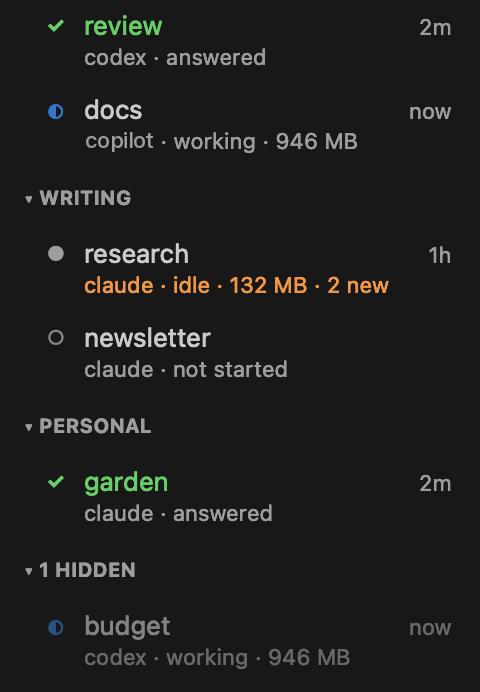
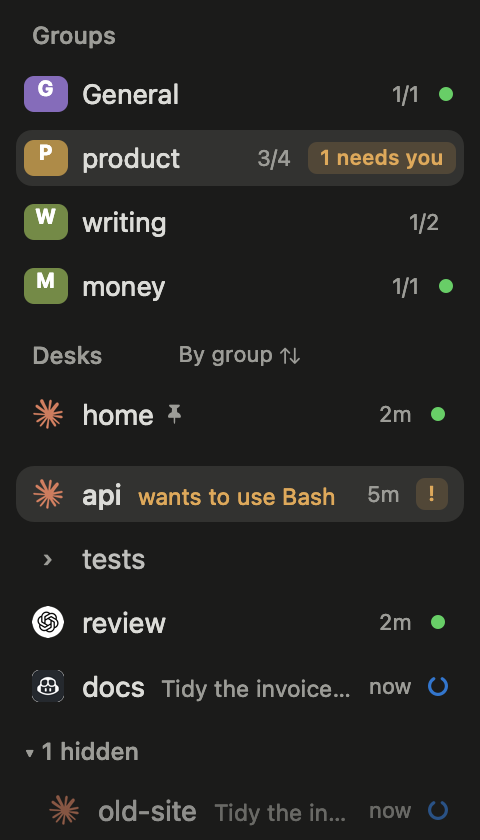
README and site: the new window, Needs You, Changes
New demo screenshots (made-up acme-app desks, vendor logos shown as a
person can add them): the window with groups, tabs and pane cards; the
desk list; the Needs You and Changes windows. Copy for the state marks,
the reason beside a desk, groups and priority, answering from one
window, and reviewing changes; new shortcuts; the guide's normal day.

Claude-Session: https://claude.ai/code/session_01RG4rCm66WLPeyJXCSSfMER

diff --git a/server/public/guide/index.html b/server/public/guide/index.html
@@ -331,7 +331,7 @@ budget = 50                 <span class="c"># dollars a week; the row turns red 
       <li><strong>Point each desk at its own folder.</strong> The agent reads and writes there, and its memory files there apply.</li>
       <li><strong>Group them.</strong> Desks with the same <code>group</code> fold together. Drag desks and whole groups into the order you like, or right-click and sort A to Z.</li>
       <li><strong>Pin the ones you live in.</strong> Right-click, Pin to Top. A pinned desk stays at the very top of the rail, above everything else, and cmd-1 goes to the first one.</li>
-      <li><strong>Let the desks that need you come to you.</strong> Running desks sit in Active at the top, under your pinned desks: orange (a question) first, then green (finished), then working and idle. Rows only move while the pointer is away from the list, so nothing jumps under a click. Right-click the list to turn <strong>Show Running Desks on Top</strong> off.</li>
+      <li><strong>Let the desks that need you come to you.</strong> Switch the desk list to <strong>By priority</strong> (the button beside Desks): every running desk under Needs you, Done, Working and Idle, longest wait first. Rows only move while the pointer is away from the list, so nothing jumps under a click.</li>
       <li><strong>Hide what you're not using.</strong> Right-click, Hide Desk. It stays in the file and comes back with one click.</li>
     </ul>
     <h3>Two Claude plans</h3>
@@ -345,15 +345,18 @@ budget = 50                 <span class="c"># dollars a week; the row turns red 
     <h2 id="day">A normal day</h2>
     <p>Hand a desk a job, move on to another desk, and let Coldfall tell you when to come back.</p>
     <figure>
-      <div class="pic"><picture><source srcset="/img/rail.webp" type="image/webp" width="480" height="714"><img src="/img/rail.png" width="480" height="714" loading="lazy" decoding="async" alt="The desk list, with a green line reading 3 need you."></picture></div>
-      <figcaption>The desk list. The green line names the desks waiting on you.</figcaption>
+      <div class="pic"><picture><source srcset="/img/rail.webp" type="image/webp" width="480" height="700"><img src="/img/rail.png" width="480" height="700" loading="lazy" decoding="async" alt="The desk list: four groups, one marked 1 needs you, and under it a desk whose row reads wants to use Bash."></picture></div>
+      <figcaption>Groups on top, the selected group's desks under them. Each desk has one mark for what it needs.</figcaption>
     </figure>
     <ul>
-      <li><strong>A green check</strong> on a desk means it finished while you were looking at something else, and its screen changed. It might want an answer, or it's just done. Its row also moves up to the top of the list, under the green line, until you've looked at it.</li>
-      <li><strong>Running desks sit in Active.</strong> The top of the desk list shows every running desk, the ones that need you first; the rest are below under Not running, in their groups. The small letter beside a name says which agent runs it (C Claude, X Codex, A Antigravity, G Copilot); <code>icon = "⛳"</code> in desks.toml gives a desk its own.</li>
-      <li><strong>Orange means it needs you.</strong> A desk stopped on a question (a permission, a choice) turns orange and stays that way until you answer it. Green means it finished. With Coldfall in the background you get a notification for either; click it to go there. Settings, Agents turns it off.</li>
+      <li><strong>One mark per desk.</strong> A green dot means it finished while you were looking at something else. An amber <strong>Needs you</strong> means it stopped on a question (a permission, a choice) and stays until you answer. A blue ring means it's working; a hollow circle, running with nothing new. With Coldfall in the background you get a notification for the first two; click it to go there. Settings, Agents turns it off.</li>
+      <li><strong>Why it's waiting</strong> is beside the desk's name, in the agent's own words: "wants to use Bash", or the question it asked. When it isn't waiting, that spot shows what the agent says it's working on.</li>
+      <li><strong>Groups on top, desks under them.</strong> Each group has a coloured letter, how many of its desks are running, and one mark for all of them. Click a group and the list, and the tabs over the terminal, switch to it. Drag a desk onto a group to move it there. The button beside <strong>Desks</strong> switches to <strong>By priority</strong>: every running desk from every group, most urgent first.</li>
+      <li><strong>Which agent runs a desk</strong> is the small letter beside its name (C Claude, X Codex, A Antigravity, G Copilot). To show a logo instead, put <code>claude.png</code>, <code>codex.png</code> and so on in <code>~/.config/coldfall/icons/</code>. <code>icon = "⛳"</code> in desks.toml gives one desk its own.</li>
+      <li><strong>Answer from one place.</strong> Click <strong>needs you</strong> at the bottom of the window (or <kbd>⌥⌘0</kbd>) to see every waiting desk with its question and its choices as buttons. A button presses its key only if that choice is still on the desk's screen.</li>
+      <li><strong>Review what it did.</strong> <strong>Changes</strong>, over the terminal (or <kbd>⇧⌘G</kbd>), lists the files changed since the last commit with their diffs. Select lines, write a comment, and send them all to the agent as one message. It only reads the repository.</li>
       <li><strong>Make green exact.</strong> Settings, Agents, <strong>Let agents say when they're done</strong>. Claude Code and Codex then tell Coldfall when a desk finishes or needs you, so a desk turns green on the agent's word rather than a guess from its output. It writes one line to a file on your Mac and sends nothing. Codex asks you to trust the new hook once: run <code>/hooks</code> in a Codex desk.</li>
-      <li><strong>The green line</strong> at the top names every waiting desk, oldest first. Click it, or press <kbd>⌘0</kbd>, to go to the one that's waited longest. The <strong>×</strong> clears it without visiting them.</li>
+      <li><strong>Who next?</strong> <kbd>⌘0</kbd> goes to the desk that's waited longest. <kbd>⌥⌘↓</kbd> and <kbd>⌥⌘↑</kbd> step through the list in the order shown. Glanced at an answer but not dealt with it? Right-click the desk, <strong>Mark Unread</strong>.</li>
       <li><strong>Jump around</strong> with <kbd>⌘1</kbd> to <kbd>⌘9</kbd> for your first nine desks, or <kbd>⌘P</kbd> to find any desk or file by a few letters.</li>
       <li><strong>Need a plain shell?</strong> <kbd>⌘D</kbd> splits one in beside the agent, in the same desk and folder. For a shell of its own in the list, <kbd>⌘N</kbd> makes a new shell desk.</li>
       <li><strong>Files your agents write</strong> open in the reader on the right, with Markdown and PDFs shown properly.</li>
@@ -425,6 +428,9 @@ budget = 50                 <span class="c"># dollars a week; the row turns red 
       <tbody>
         <tr><td><kbd>⌘1</kbd> to <kbd>⌘9</kbd></td><td>Go to one of your first nine desks, pinned ones first</td></tr>
         <tr><td><kbd>⌘0</kbd></td><td>Go to the desk that's waited longest</td></tr>
+        <tr><td><kbd>⌥⌘0</kbd></td><td>Needs You: answer waiting desks from one window</td></tr>
+        <tr><td><kbd>⌥⌘↓</kbd> / <kbd>⌥⌘↑</kbd></td><td>Next / previous desk, in the order the list shows</td></tr>
+        <tr><td><kbd>⇧⌘G</kbd></td><td>Changes: what this desk changed, with comments back to the agent</td></tr>
         <tr><td><kbd>⌘P</kbd></td><td>Find any desk or file</td></tr>
         <tr><td><kbd>⇧⌘P</kbd></td><td>Run any command, the desk on screen's own first (or type <code>&gt;</code> in <kbd>⌘P</kbd>)</td></tr>
         <tr><td><kbd>⌥</kbd>-click a desk</td><td>Peek at it: its live screen over this one, without switching</td></tr>
@@ -434,6 +440,7 @@ budget = 50                 <span class="c"># dollars a week; the row turns red 
         <tr><td><kbd>⌘N</kbd></td><td>New shell desk, in the folder you're in</td></tr>
         <tr><td><kbd>⌘D</kbd> / <kbd>⇧⌘D</kbd></td><td>Split a shell in to the right / below</td></tr>
         <tr><td><kbd>⌘]</kbd> / <kbd>⌘[</kbd></td><td>Next / previous pane</td></tr>
+        <tr><td><kbd>⇧⌘↩</kbd></td><td>Zoom a pane to fill the desk, and back</td></tr>
         <tr><td><kbd>⌘W</kbd></td><td>Close a pane</td></tr>
         <tr><td><kbd>⌘B</kbd></td><td>Show or hide the desk list</td></tr>
         <tr><td><kbd>⌥⌘B</kbd></td><td>Show or hide the reader</td></tr>
@@ -443,7 +450,7 @@ budget = 50                 <span class="c"># dollars a week; the row turns red 
       </tbody>
     </table>
     <p>Any of these can be changed: <strong>Settings ▸ General ▸ Edit Shortcuts</strong> opens <code>keys.json</code>, a command's name to a shortcut such as <code>"cmd+shift+k"</code>, or <code>"none"</code>.</p>
-    <p>Right-click almost anything, a desk, a group, the green line, for more.</p>
+    <p>Right-click almost anything, a desk or a group, for more.</p>
 
     <h2 id="leaving">If you want out</h2>
     <p>Coldfall runs your agents; it never replaces them. So leaving costs nothing: Claude Code, Codex and the rest keep their logins, conversations, settings, hooks and memory files, and work from a plain terminal exactly as before. Desks that run your own script are your script.</p>

diff --git a/server/public/index.html b/server/public/index.html
@@ -258,11 +258,11 @@
     <div class="window">
       <div class="bar" aria-hidden="true"><span></span><span></span><span></span></div>
       <picture>
-        <source media="(max-width: 640px)" srcset="/img/rail.webp" type="image/webp" width="480" height="714">
-        <source media="(max-width: 640px)" srcset="/img/rail.png" width="480" height="714">
-        <source srcset="/img/app.webp" type="image/webp" width="2360" height="1560">
-        <img src="/img/app.png" width="2360" height="1560" fetchpriority="high"
-             alt="The Project Coldfall window: a list of desks on the left, a terminal in the middle and a formatted document on the right.">
+        <source media="(max-width: 640px)" srcset="/img/rail.webp" type="image/webp" width="480" height="700">
+        <source media="(max-width: 640px)" srcset="/img/rail.png" width="480" height="700">
+        <source srcset="/img/app.webp" type="image/webp" width="2480" height="1640">
+        <img src="/img/app.png" width="2480" height="1640" fetchpriority="high"
+             alt="The Project Coldfall window: groups and desks on the left with a mark for what each one needs, tabs and a terminal in the middle, and a formatted document on the right.">
       </picture>
       <div class="glow" aria-hidden="true"></div>
     </div>
@@ -316,10 +316,11 @@
         <p>A desk is one agent with its own folder, instructions and conversation, that you come back to for weeks. One for your code, one for research, one for writing, one for your budget. Claude, Codex and Antigravity desks that Project Coldfall starts pick up their conversation after a restart.</p>
         <ul>
           <li>Each desk runs the vendor's own tool, so your logins, settings and hooks work as they already do.</li>
-          <li>Group desks, drag them into order, and hide the ones you're not using without losing them.</li>
+          <li>Put desks in groups. Click a group and the list and the tabs over the terminal switch to it.</li>
+          <li>Drag desks into order, pin the ones you live in, and hide the ones you're not using without losing them.</li>
         </ul>
       </div>
-      <div class="pic tall"><picture><source srcset="/img/rail-hidden.webp" type="image/webp" width="480" height="692"><img src="/img/rail-hidden.png" width="480" height="692" loading="lazy" decoding="async"
+      <div class="pic tall"><picture><source srcset="/img/rail-hidden.webp" type="image/webp" width="480" height="840"><img src="/img/rail-hidden.png" width="480" height="840" loading="lazy" decoding="async"
            alt="The desk list grouped by job, with one hidden desk listed at the bottom."></picture></div>
     </div>
   </section>
@@ -328,15 +329,46 @@
     <div class="wrap row flip">
       <div class="text">
         <p class="kicker">Needs you</p>
-        <h2>See which one is waiting, without checking each one.</h2>
-        <p>When a desk finishes while you're looking at another one, and its screen has changed, it's marked. A green line at the top names those desks, oldest first, and <kbd>⌘0</kbd> takes you straight there.</p>
+        <h2>See which one is waiting, and why, without checking each one.</h2>
+        <p>Every desk carries one mark: an amber <em>Needs you</em> when it has stopped on a question, a green dot when it has an answer you haven't seen, a blue ring while it works. Beside its name is the reason, in the agent's own words, like "wants to use Bash". <kbd>⌘0</kbd> takes you to the one that has waited longest.</p>
         <ul>
-          <li>A folded group still shows how many of its desks are waiting.</li>
-          <li>Turn on <em>Keep Active Groups on Top</em>: groups with waiting desks rise first, then the most recently used.</li>
+          <li>Each group shows one mark for all its desks, and the bottom of the window counts them: 1 needs you, 2 working, 2 done.</li>
+          <li>Switch the list to <em>By priority</em> to see every running desk, most urgent first.</li>
         </ul>
       </div>
-      <div class="pic tall"><picture><source srcset="/img/rail.webp" type="image/webp" width="480" height="714"><img src="/img/rail.png" width="480" height="714" loading="lazy" decoding="async"
-           alt="The desk list, with a green line reading 3 need you and a folded group showing one waiting desk."></picture></div>
+      <div class="pic tall"><picture><source srcset="/img/rail.webp" type="image/webp" width="480" height="700"><img src="/img/rail.png" width="480" height="700" loading="lazy" decoding="async"
+           alt="The desk list: four groups, one marked 1 needs you, and under it a desk whose row reads wants to use Bash."></picture></div>
+    </div>
+  </section>
+
+  <section>
+    <div class="wrap row">
+      <div class="text">
+        <p class="kicker">Answer from one place</p>
+        <h2>Five permission prompts, without opening five desks.</h2>
+        <p>Click <em>needs you</em> at the bottom of the window. Every waiting desk is listed with its question, what the question is about, and its choices as buttons. Press one and that desk carries on.</p>
+        <ul>
+          <li>The choices are read off the desk's own screen, and a button only presses its key if that choice is still there.</li>
+          <li>The same choices show in the inbox on your phone.</li>
+        </ul>
+      </div>
+      <div class="pic"><picture><source srcset="/img/feed.webp" type="image/webp" width="1240" height="700"><img src="/img/feed.png" width="1240" height="700" loading="lazy" decoding="async"
+           alt="The Needs You window: a desk asking Do you want to proceed, the command npm test, and three buttons, Yes, Yes and do not ask again, and No."></picture></div>
+    </div>
+  </section>
+
+  <section>
+    <div class="wrap row flip">
+      <div class="text">
+        <p class="kicker">Review what it did</p>
+        <h2>Read the changes, and send your comments back.</h2>
+        <p><em>Changes</em> lists the files a desk changed since the last commit, with each one's diff. Select some lines, write a comment, add as many as you like, and send them to the agent together, each with its file, its line and the code it's about.</p>
+        <ul>
+          <li>It only reads the repository. Nothing is staged, committed or reverted.</li>
+        </ul>
+      </div>
+      <div class="pic"><picture><source srcset="/img/changes.webp" type="image/webp" width="1880" height="1040"><img src="/img/changes.png" width="1880" height="1040" loading="lazy" decoding="async"
+           alt="The Changes window: four changed files on the left, a diff with added and removed lines on the right, and one comment ready to send."></picture></div>
     </div>
   </section>
 
@@ -375,7 +407,9 @@
       <div class="grid" style="text-align:left">
         <div class="card"><h3>Quick open</h3><p><kbd>⌘P</kbd> finds any desk or file by a few letters.</p></div>
         <div class="card"><h3>A reader beside the terminal</h3><p>Files your agents write open next to them, with Markdown and PDFs shown properly.</p></div>
-        <div class="card"><h3>Splits</h3><p>Add a shell beside or below the agent, in the same desk.</p></div>
+        <div class="card"><h3>Splits</h3><p>Add a shell beside or below the agent, in the same desk. Each pane is its own card, and <kbd>⇧⌘↩</kbd> zooms one to fill the desk.</p></div>
+        <div class="card"><h3>Tabs for the group you're in</h3><p>The running desks in the current group sit in a row over the terminal, each with its mark.</p></div>
+        <div class="card"><h3>How full is the conversation</h3><p>A pane's header shows the context filling up, orange from 60 percent and red from 80.</p></div>
         <div class="card"><h3>Stop a desk, free its memory</h3><p>End a desk you're done with for now. Claude, Codex and Antigravity desks pick up their conversation when you start them again.</p></div>
         <div class="card"><h3>Remote machines too</h3><p>A desk can be an SSH connection to another computer, found from your own SSH settings.</p></div>
         <div class="card"><h3>Your file, your rules</h3><p>Every desk lives in one plain text file you can edit by hand. The app picks up changes as you make them.</p></div>

diff --git a/README.md b/README.md
@@ -6,7 +6,7 @@
 
 Project Coldfall is a macOS terminal for running several long-lived AI agents side by side: Claude Code, Codex, Antigravity, Copilot, or a local model through Ollama. A strip along the bottom reads each vendor's real remaining quota and shows it in one place, so you find out on Tuesday that Claude is nearly spent for the week and Codex still has room, not on Thursday when a session dies mid-task. Each agent lives on a persistent desk that keeps its own folder, its own memory and its own conversation, so you switch between them instead of starting over.
 
-<p align="center"><img src="server/public/img/app.png" width="820" alt="Project Coldfall with a demo project open: desks for api, review, docs and notes in the rail, a test run in the terminal, and a plan file in the reader"></p>
+<p align="center"><img src="server/public/img/app.png" width="820" alt="Project Coldfall with a demo project open: groups and desks on the left, each desk with a mark for what it needs and one reading wants to use Bash; tabs and a test run in the terminal; a plan file in the reader"></p>
 
 <p align="center"><img src="server/public/img/meter.png" width="820" alt="The cost meter: claude 72 percent of the week used, codex only 12 percent, with the hint to send the next task to codex"></p>
 
@@ -19,7 +19,8 @@ macOS 13 or later · Swift · MIT licensed · early, but it runs
 ### Why it exists
 
 - **The meter.** Live quota for Claude and Codex, side by side, with the week's reset time. When one vendor is far ahead of the other, it says so and names where to send the next task. Click the strip for quota bars, which desk used what, and fourteen days of history. Copilot shows tokens and premium requests but no quota, and Antigravity shows nothing yet.
-- **Desks, not threads.** One desk per specialist. Switch desks and the others keep running. Green tells you which one has finished answering; orange, which one is waiting on you.
+- **Desks, not threads.** One desk per specialist. Switch desks and the others keep running. A green dot tells you which one has finished answering; an amber *Needs you*, which one is waiting on you, with the reason beside its name.
+- **Answer and review without opening each one.** One window lists every waiting desk with its question and its choices as buttons. Another shows what a desk changed, and sends your comments on it back to the agent.
 - **Your own agents, untouched.** Project Coldfall launches the vendor's real CLI in a real terminal, so your agent definitions, hooks, memory files and model pins all still apply. It never reimplements an agent.
 - **Yours to leave.** Everything it writes is in two folders, and Settings can list and remove all of it.
 
@@ -47,11 +48,19 @@ Project Coldfall calls one of those a **desk**, and makes the desk the unit.
 
 **Pasting a screenshot works too.** `cmd-ctrl-shift-4` puts an image on the clipboard and nowhere else; paste it into a desk and Project Coldfall writes it to `~/.local/share/coldfall/pasted/` and types that path instead. Pasting text is untouched, and a file copied in Finder still pastes as a path the normal way.
 
-**It tells you when a desk answered.** The point of desks is running several agents at once, which means you are never watching more than one of them — so a desk that finishes while you are elsewhere gets a **green check** in the rail, one stopped on a question for you (a permission, a choice) turns **orange**, and the Dock icon carries a count of how many are waiting. A desk mid-thought shows a still blue dot, so "working", "needs you" and "done" are three different signals.
+**It tells you when a desk answered.** The point of desks is running several agents at once, which means you are never watching more than one of them — so every desk carries one mark, drawn the same way in the desk list, the tabs and the pane headers. A desk that finishes while you are elsewhere gets a **green dot**. One stopped on a question for you (a permission, a choice) gets an amber **Needs you**. A desk mid-thought shows a still blue ring, and a running desk with nothing new a hollow circle. The Dock icon carries a count of how many are waiting, and the bottom of the window says it in words: *1 needs you · 2 working · 2 done*.
+
+**And why.** Beside a waiting desk's name is the reason in the agent's own words — "wants to use Bash", or the question it asked — and the notification says the same. When a desk is not waiting, that spot shows what the agent says it is working on, taken from its own terminal title. Triage is reading a column, not opening twenty desks.
 
 An agent can say it has finished or needs you, through Coldfall's done hook (Claude Code and Codex, one click in Settings) or the OSC 7501 status protocol, and then that is what turns a desk green or orange. Without either, all that reaches Project Coldfall is bytes on a pty, so "finished" is inferred from bytes stopping for two seconds. Looking at the desk is the only thing that clears the dot — not hovering, not bringing the app forward. A badge that clears itself is worse than none, because you stop trusting it was ever set.
 
-**Splits, when one terminal is not enough.** `cmd-d` and `cmd-shift-d` give a desk a second pane: the agent in one, a shell in the other to look at what it just did. Pane 0 is the agent and confirms before you close it; the rest are login shells in the same directory and close for free. A desk keeps one axis and stops at four panes, because past that it is a mosaic rather than a workspace.
+**Groups, tabs, and a list that follows them.** The desk list opens with your groups: a coloured letter, how many of the group's desks are running, and one mark for all of them. Click a group and the list under it, and the tabs over the terminal, switch to that group's desks. Drag a desk onto a group to move it there. The button beside **Desks** flips the list to **By priority** — every running desk from every group under Needs you, Done, Working and Idle, longest wait first — and `opt-cmd-down` / `opt-cmd-up` walk whichever order is showing. Rows only re-sort while the pointer is away from the list, so nothing moves out from under a click.
+
+**Answer waiting desks from one window.** Click *needs you* at the bottom of the window (`opt-cmd-0`) and every desk stopped on a question is listed with the question, what it is about, and its choices as buttons. The choices are read off the desk's own screen, and a button presses its key only if that choice is still there when you click: a prompt that has changed is never answered blind. A desk whose question cannot be read offers *Go to Desk* instead of a guess.
+
+**Read what a desk changed, and send comments back.** *Changes* (`cmd-shift-g`) lists the files changed in the desk's folder since the last commit, each with its diff. Select lines, write a comment, add as many as you like across files, and send: the agent gets them as one message, each with its file, line and the code it is about. Project Coldfall only reads the repository — nothing is staged, committed or reverted from here.
+
+**Splits, when one terminal is not enough.** `cmd-d` and `cmd-shift-d` give a desk a second pane: the agent in one, a shell in the other to look at what it just did. Pane 0 is the agent and confirms before you close it; the rest are login shells in the same directory and close for free. A desk keeps one axis and stops at four panes, because past that it is a mosaic rather than a workspace. Each pane is a card with its own header — the desk, the agent and folder, the branch when it is not main, how full the conversation is once it passes 60% — and `cmd-shift-return` zooms one pane to fill the desk.
 
 **A folder tree and a reader, with tabs.** Agents write, you read. Files an agent touches **open themselves** — you cannot pre-open a file when you do not know which one it will edit. Those tabs are transient and render italic, like a preview tab, and recycle past four so a busy desk cannot bury you; clicking one pins it. Each tab watches its file and refreshes in place. PDFs, images and text, with shallow syntax highlighting. Read-only is what keeps the reader small — and why a PDF opens here at all.
 
@@ -210,6 +219,8 @@ It **follows the system** light/dark switch by default, repainting live — incl
 
 The unfocused pane dims rather than relying on the focus ring alone: the eye finds the bright pane without hunting for a border.
 
+A desk's vendor shows as a letter on the vendor's colour. Put `claude.png`, `codex.png` and so on in `~/.config/coldfall/icons/` and the desk list, tabs and pane headers show those pictures instead, as in the screenshot above; the logos are the vendors' own and do not ship with Project Coldfall.
+
 ```toml
 [theme]
 palette   = "vscode"      # vscode | gruvbox | nord | solarized
@@ -229,7 +240,12 @@ A font that is not installed falls back to the next one that is, and an unrecogn
 | | |
 |---|---|
 | `cmd-1` … `cmd-9` | jump to a desk |
+| `cmd-0` | the desk that has waited longest |
+| `opt-cmd-0` | Needs You: answer waiting desks from one window |
+| `opt-cmd-down` / `opt-cmd-up` | next / previous desk, in the order shown |
+| `cmd-shift-g` | Changes: what this desk changed |
 | `cmd-d` / `cmd-shift-d` | split the desk right / down |
+| `cmd-shift-return` | zoom a pane to fill the desk |
 | `cmd-w` | close the focused pane |
 | `cmd-[` / `cmd-]` | move between panes |
 | `cmd-r` | refresh the folder tree |
@@ -241,7 +257,7 @@ A font that is not installed falls back to the next one that is, and an unrecogn
 | `cmd-,` | settings |
 | `cmd-opt-shift-u` | update Project Coldfall from source |
 
-Click a group header to collapse it, right-click to rename it.
+Right-click a group to rename it or sort its desks; drag it to reorder.
 
 ## The bridge is a mailbox, not a protocol
 
@@ -294,11 +310,11 @@ Threads land in `~/.local/share/coldfall/mail/`. If you already have a handoff s
 
 It runs and it is useful. It is also early.
 
-Working: desks that resume their conversation, groups, the folder tree, the reader, the bridge, the cross-vendor meter, per-desk MCP servers, settings, first run.
+Working: desks that resume their conversation, groups and tabs, the priority list, answering waiting desks from one window, a changes view with comments back to the agent, the folder tree, the reader, the bridge, the cross-vendor meter, per-desk MCP servers, settings, first run.
 
 Not built yet:
 
-- No diff view. The reader shows a file, not what changed in it.
+- The changes view is read-only: no staging, committing or reverting from it.
 - No syntax highlighting.
 - Live quota works for Claude and Codex. Copilot shows tokens and premium requests but no quota. Antigravity shows nothing yet.
 
